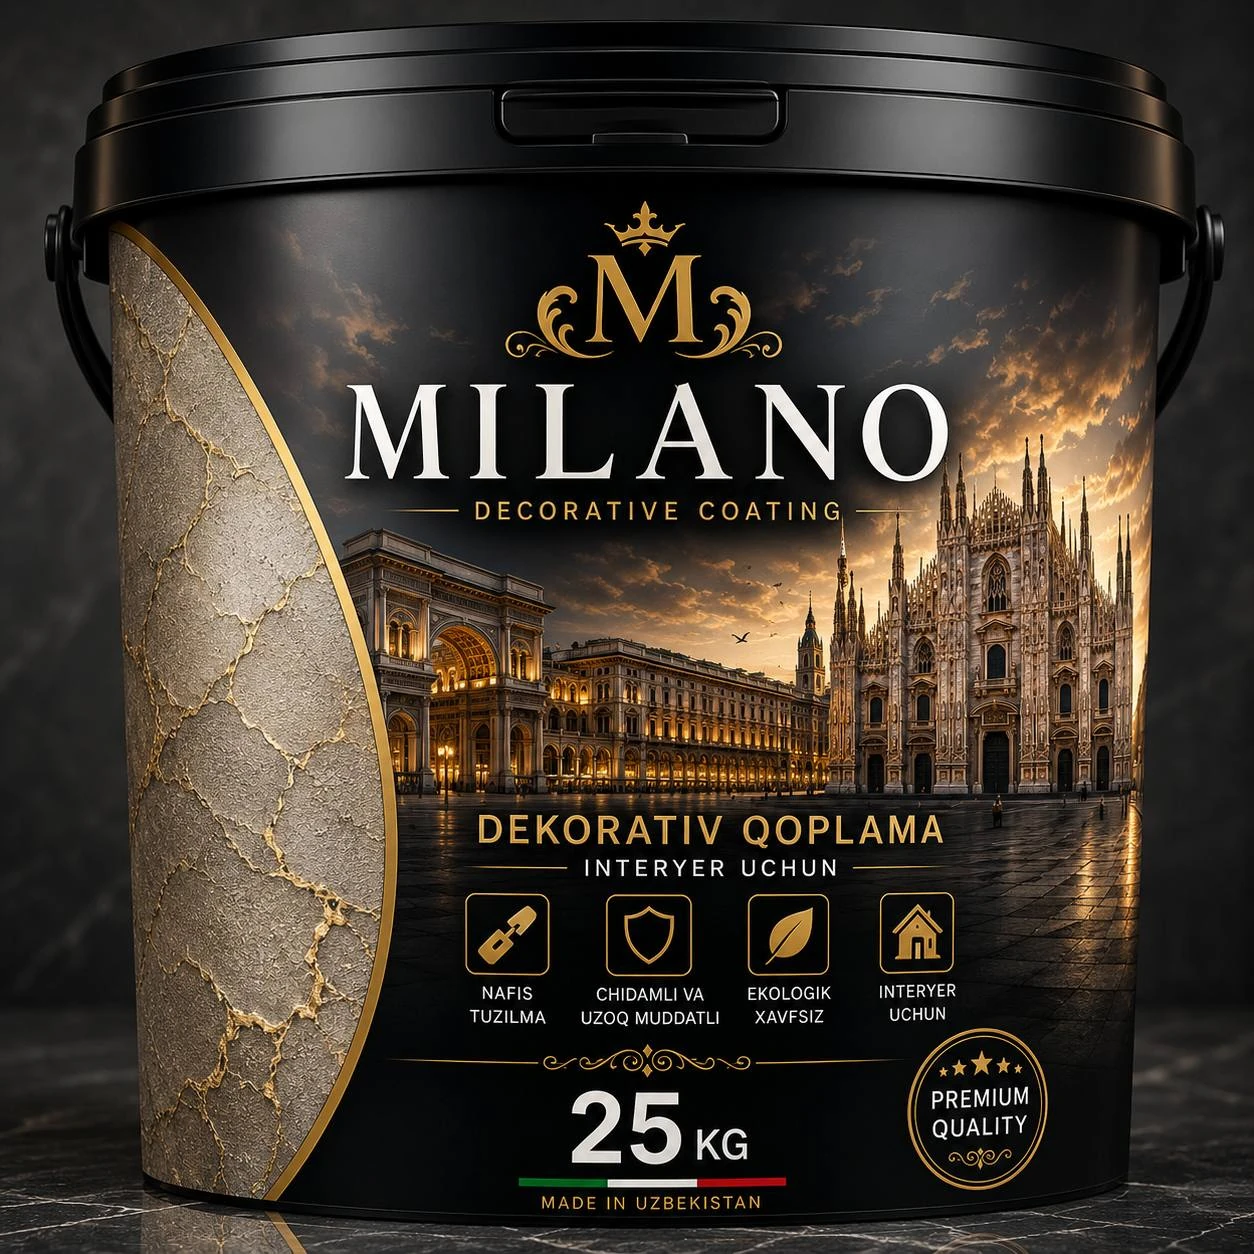
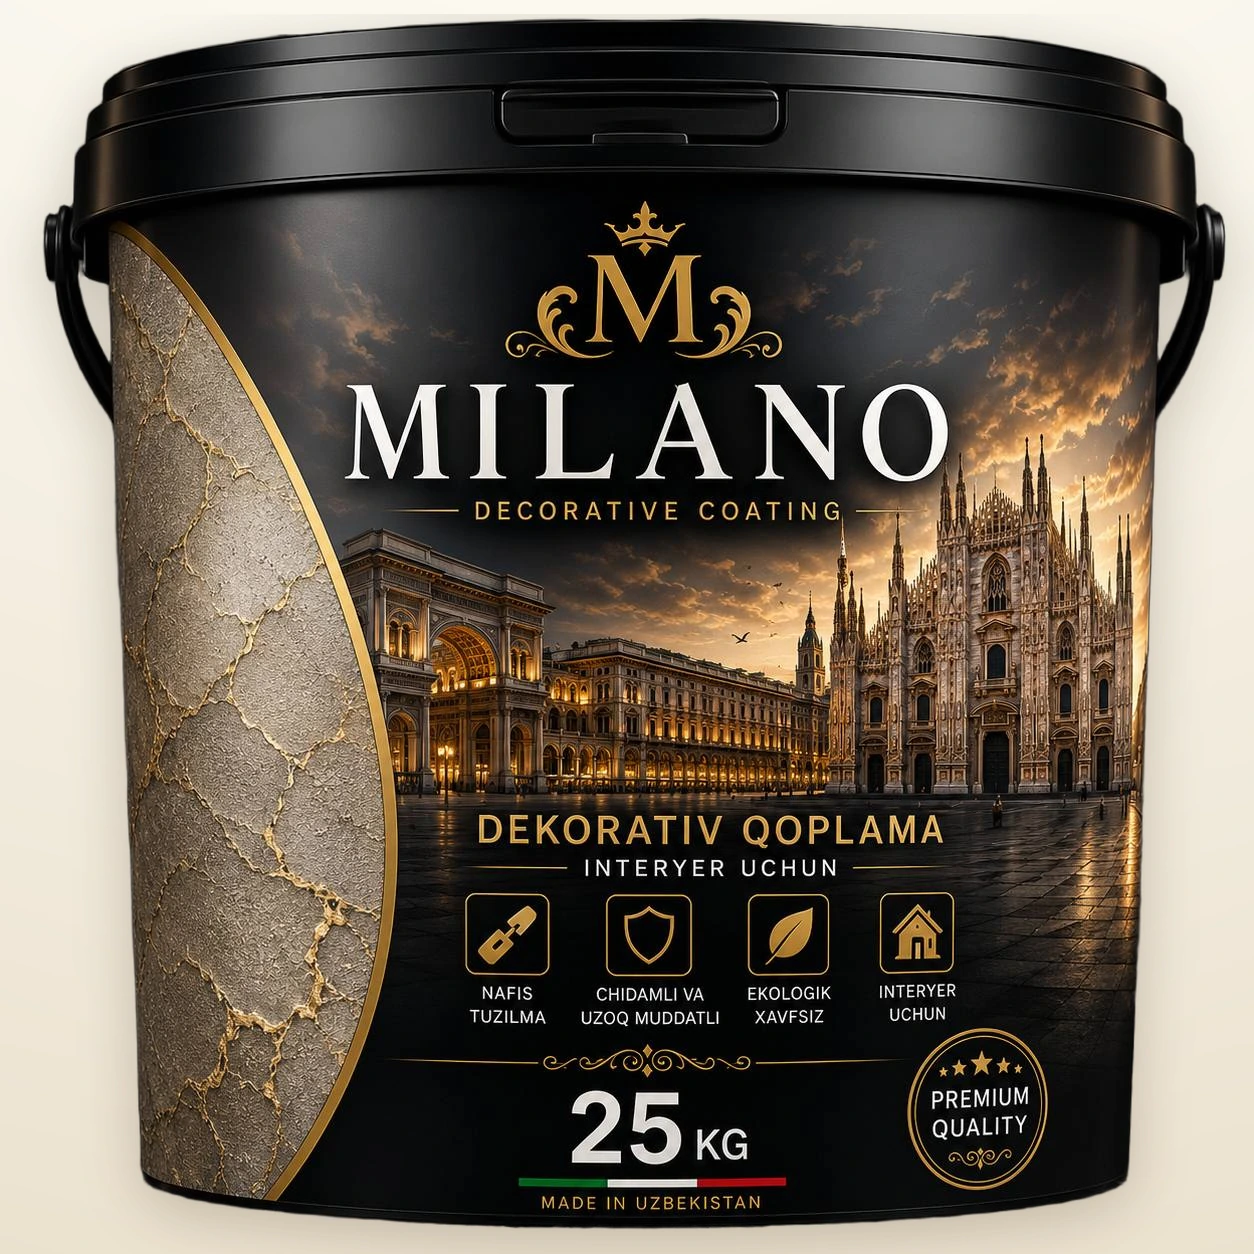
Match Milano product image to cream catalogue

Changed region(s): [[0.0, 0.0, 1.0, 1.0]]

diff --git a/element_paint_web/preview.html b/element_paint_web/preview.html
@@ -6,8 +6,8 @@
   <meta name="description" content="Element Paint — bo‘yoqlar va dekorativ qoplamalar ishlab chiqaruvchisi. Mahsulotlar katalogi.">
   <title>Element Paint — Mahsulotlar</title>
   <link rel="preload" as="image" href="assets/berlak_loader_can_v1.webp" fetchpriority="high">
-  <link rel="icon" href="assets/logo_light.png"><link rel="stylesheet" href="preview.css?v=20261007.17">
-  <script type="module" src="preview-app.js?v=20261007.17"></script>
+  <link rel="icon" href="assets/logo_light.png"><link rel="stylesheet" href="preview.css?v=20261007.18">
+  <script type="module" src="preview-app.js?v=20261007.18"></script>
 </head>
 <body>
   <a class="skip-link" href="#main" data-i18n="skip">Asosiy mazmunga o‘tish</a>

diff --git a/element_paint_web/preview-app.js b/element_paint_web/preview-app.js
@@ -1,4 +1,4 @@
-import { categories, products, strings, findProduct } from './catalog-data.js?v=20261007.17';
+import { categories, products, strings, findProduct } from './catalog-data.js?v=20261007.18';
 
 const $ = id => document.getElementById(id);
 const validLang = value => ['uz','ru','en'].includes(value) ? value : 'uz';

diff --git a/docs/milano-background-prompt.md b/docs/milano-background-prompt.md
@@ -1,0 +1,17 @@
+# MILANO rasmini krem katalog foniga moslash
+
+Vosita: imagegen `scripts/image_gen.py edit` CLI fallback, `gpt-image-2`, yuqori sifat. Foydalanuvchi CLI fallback bilan rasmlarni dizaynga moslashni tasdiqladi. Kirish: mijoz yuborgan MILANO qoplama bankasi. Mahsulot va yorliq saqlanadi; faqat qora studiya muhiti qaymoqrang katalog foniga almashtiriladi.
+
+## Yakuniy prompt
+
+Use case: precise-object-edit. Asset type: square product image for a paint manufacturer's web catalogue. Image 1 is the exact client supplied MILANO decorative coating pail and is the edit target. Change only the environment surrounding the pail: replace the near-black dramatic studio and floor with the warm cream studio backdrop used by the Element Paint catalogue (#F5EEDF background, #EEE4D2 warm studio floor), gentle diffuse light, and a small natural contact shadow directly below the pail. Preserve the complete pail silhouette, black plastic body and lid, handle, crop, camera angle and size. Preserve the printed label artwork exactly as supplied, especially the gold crowned M, the white MILANO wordmark, the city and stone textures, all badges and icons, and the existing label text. Preserve verbatim: "MILANO", "DECORATIVE COATING", "DEKORATIV QOPLAMA", "INTERYER UCHUN", "25 KG", "MADE IN UZBEKISTAN". Do not redraw, replace, move or add packaging text or graphics. Keep the entire pail visible and centered. No extra props, products, people, background architecture, logos or watermark. Photorealistic catalogue studio lighting, square composition.
+
+## Bajarilgan tahrir
+
+ImageGen API ga CLI orqali so‘rov yuborish muhiti `401 invalid_api_key` qaytardi, shuning uchun undan rasm olinmadi. Yakuniy rasm mijoz yuborgan suratdagi mahsulotni piksel darajasida saqlab, fonini ajratish va qaymoqrang gradientli studiya hamda yumshoq soya bilan kompozitsiya qilish orqali tayyorlandi. Yorliq matnlari va shaklini asl surat bilan solishtirib tekshirdim. Asl fayl o‘zgarmadi.
+
+- Asl manba: `design-assets/milano-decorative-source.png` (1254×1254)
+- Qaymoqrang fonli tasdiqlangan kompozitsiya: `design-assets/milano-decorative-studio-v2.png` (1254×1254)
+- Sayt uchun siqilgan nusxa: `element_paint_web/assets/milano_decorative_coating.webp`
+
+Yuqoridagi ImageGen prompti so‘rov tayyorlash uchun yozilgan; u muvaffaqiyatli API natijasi sifatida ishlatilmagan.

diff --git a/docs/milano-product-source.md b/docs/milano-product-source.md
@@ -2,6 +2,4 @@
 
 Mijoz yuborgan qadoq suratida “MILANO Decorative Coating”, interyer uchun va 25 kg yozuvlari bor. Shu ma’lumotdan foydalanib, MILANO brendi alohida mahsulot sifatida “Dekorativ qoplamalar” bo‘limiga kiritildi. Tasdiqlanmagan sarf, chidamlilik, ekologik sertifikat yoki qo‘llash usullari qo‘shilmadi.
 
-Katalog rasmi mijoz bergan mahsulot suratidan olingan; faylni WebP formatiga siqish vaqtida o‘lchami 1254×1254 px qoldirildi. Yakuniy fayl: `element_paint_web/assets/milano_decorative_coating.webp`. Asl surat Git va ommaviy paketdan tashqarida `design-assets/milano-decorative-source.png` da saqlanadi.
-
-Suratning o‘zida qora studiya muhiti bor. Uni o‘zgartiradigan ImageGen vositasi bu ish muhiti uchun hozir mavjud emas, shuning uchun yorliq va qadoqni qayta chizish o‘rniga mijoz yuborgan asl tasvir saqlandi. Boshqa mahsulotlar bilan fonni to‘liq bir xil qilish uchun MILANO bankasining krem studiyada olingan mahsulot fotosurati kerak bo‘ladi.
+Katalog rasmi mijoz bergan mahsulot suratidan olingan. Asl surat o‘zgartirilmay `design-assets/milano-decorative-source.png` da, qaymoqrang studiya foniga moslangan nusxasi esa `design-assets/milano-decorative-studio-v2.png` da saqlanadi. Fon ajratilganda mahsulotning original piksellari, yorliq matni va grafikasi saqlandi; ustiga qaymoqrang studiya gradienti va mayin soya kompozitsiya qilindi. Yorliq ko‘zdan kechirildi. Sayt uchun 1254×1254 px WebP nusxa `element_paint_web/assets/milano_decorative_coating.webp` da.
